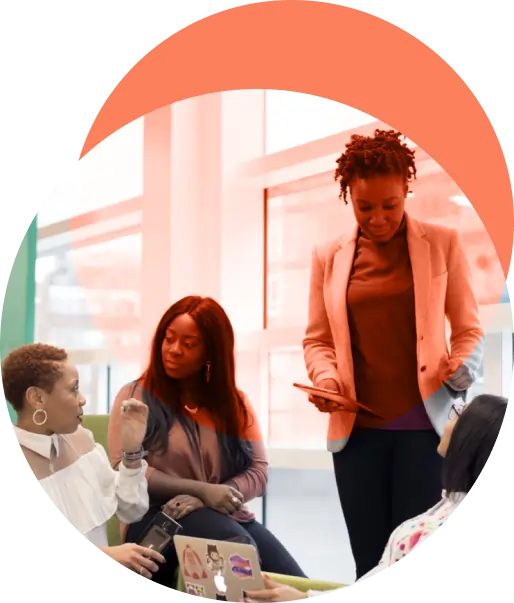
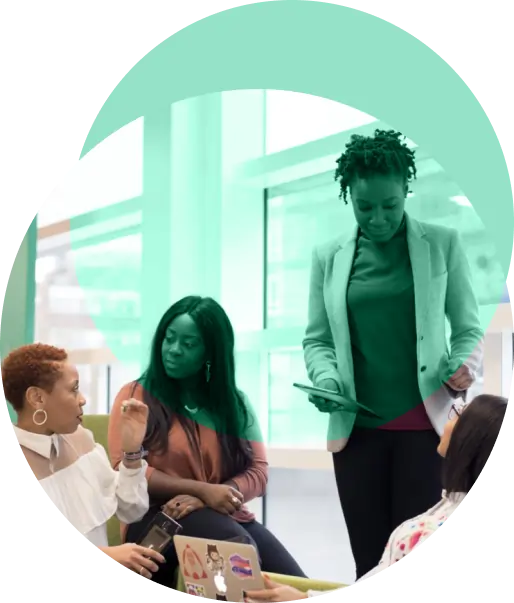
studio update

diff --git a/src/app/components/studio/studio.component.html b/src/app/components/studio/studio.component.html
@@ -401,11 +401,7 @@
 
     <div class="grid grid-cols-1 md:grid-cols-2 gap-4 md:gap-y-16">
       <div class="flex gap-x-4">
-        <p
-          class="font-headingExtraBold text-primaryOrange text-3xl md:text-6xl"
-        >
-          1
-        </p>
+        <p class="font-headingExtraBold text-black text-3xl md:text-6xl">1</p>
         <div class="space-y-2">
           <p class="font-headingFont text-2xl font-bold">Concept validation</p>
           <p>
@@ -417,11 +413,7 @@
         </div>
       </div>
       <div class="flex gap-x-4">
-        <p
-          class="font-headingExtraBold text-primaryOrange text-3xl md:text-6xl"
-        >
-          2
-        </p>
+        <p class="font-headingExtraBold text-black text-3xl md:text-6xl">2</p>
         <div class="space-y-2">
           <p class="font-headingFont text-2xl font-bold">
             Product-market fitting
@@ -436,11 +428,7 @@
         </div>
       </div>
       <div class="flex gap-x-4">
-        <p
-          class="font-headingExtraBold text-primaryOrange text-3xl md:text-6xl"
-        >
-          3
-        </p>
+        <p class="font-headingExtraBold text-black text-3xl md:text-6xl">3</p>
         <div class="space-y-2">
           <p class="font-headingFont text-2xl font-bold">Technology build</p>
           <p>
@@ -452,11 +440,7 @@
         </div>
       </div>
       <div class="flex gap-x-4">
-        <p
-          class="font-headingExtraBold text-primaryOrange text-3xl md:text-6xl"
-        >
-          4
-        </p>
+        <p class="font-headingExtraBold text-black text-3xl md:text-6xl">4</p>
         <div class="space-y-2">
           <p class="font-headingFont text-2xl font-bold">
             Acceleration and commercialisation
@@ -483,7 +467,7 @@
   >
     <!-- ---1 -->
     <div
-      class="border border-primaryBlack rounded-3xl h-96 md:w-80 flex flex-col justify-between py-8 px-8 hover:border-none hover:bg-gradient-to-br hover:from-[#FFC800] hover:cursor-pointer"
+      class="border border-primaryBlack rounded-3xl h-96 md:w-80 flex flex-col justify-between py-8 px-8 hover:border-none hover:bg-gradient-to-br hover:from-primaryGreen hover:cursor-pointer"
     >
       <p class="font-headingExtraBold text-3xl">Box3Labs Demo Day</p>
       <div class="flex justify-between">
@@ -494,7 +478,7 @@
 
     <!-- ---2 -->
     <div
-      class="border border-primaryBlack rounded-3xl h-96 md:w-80 flex flex-col justify-between py-8 px-8 hover:border-none hover:bg-gradient-to-br hover:from-[#FFC800] hover:cursor-pointer"
+      class="border border-primaryBlack rounded-3xl h-96 md:w-80 flex flex-col justify-between py-8 px-8 hover:border-none hover:bg-gradient-to-br hover:from-primaryGreen hover:cursor-pointer"
     >
       <p class="font-headingExtraBold text-3xl">
         Webinar: Essential techniques for validating your startup ideas
@@ -506,7 +490,7 @@
     </div>
     <!-- ---3 -->
     <div
-      class="border border-primaryBlack rounded-3xl h-96 md:w-80 flex flex-col justify-between py-8 px-8 hover:border-none hover:bg-gradient-to-br hover:from-[#FFC800] hover:cursor-pointer"
+      class="border border-primaryBlack rounded-3xl h-96 md:w-80 flex flex-col justify-between py-8 px-8 hover:border-none hover:bg-gradient-to-br hover:from-primaryGreen hover:cursor-pointer"
     >
       <p class="font-headingExtraBold text-3xl">
         Webinar: How to tell if you have product-market fit
@@ -635,7 +619,7 @@
     </div>
   </div>
 
-  <div class="border-t border-primaryOrange text-center py-8">
+  <div class="border-t border-primaryGreen text-center py-8">
     © Copyright Qbventures. All Rights Reserved
   </div>
 </footer>
